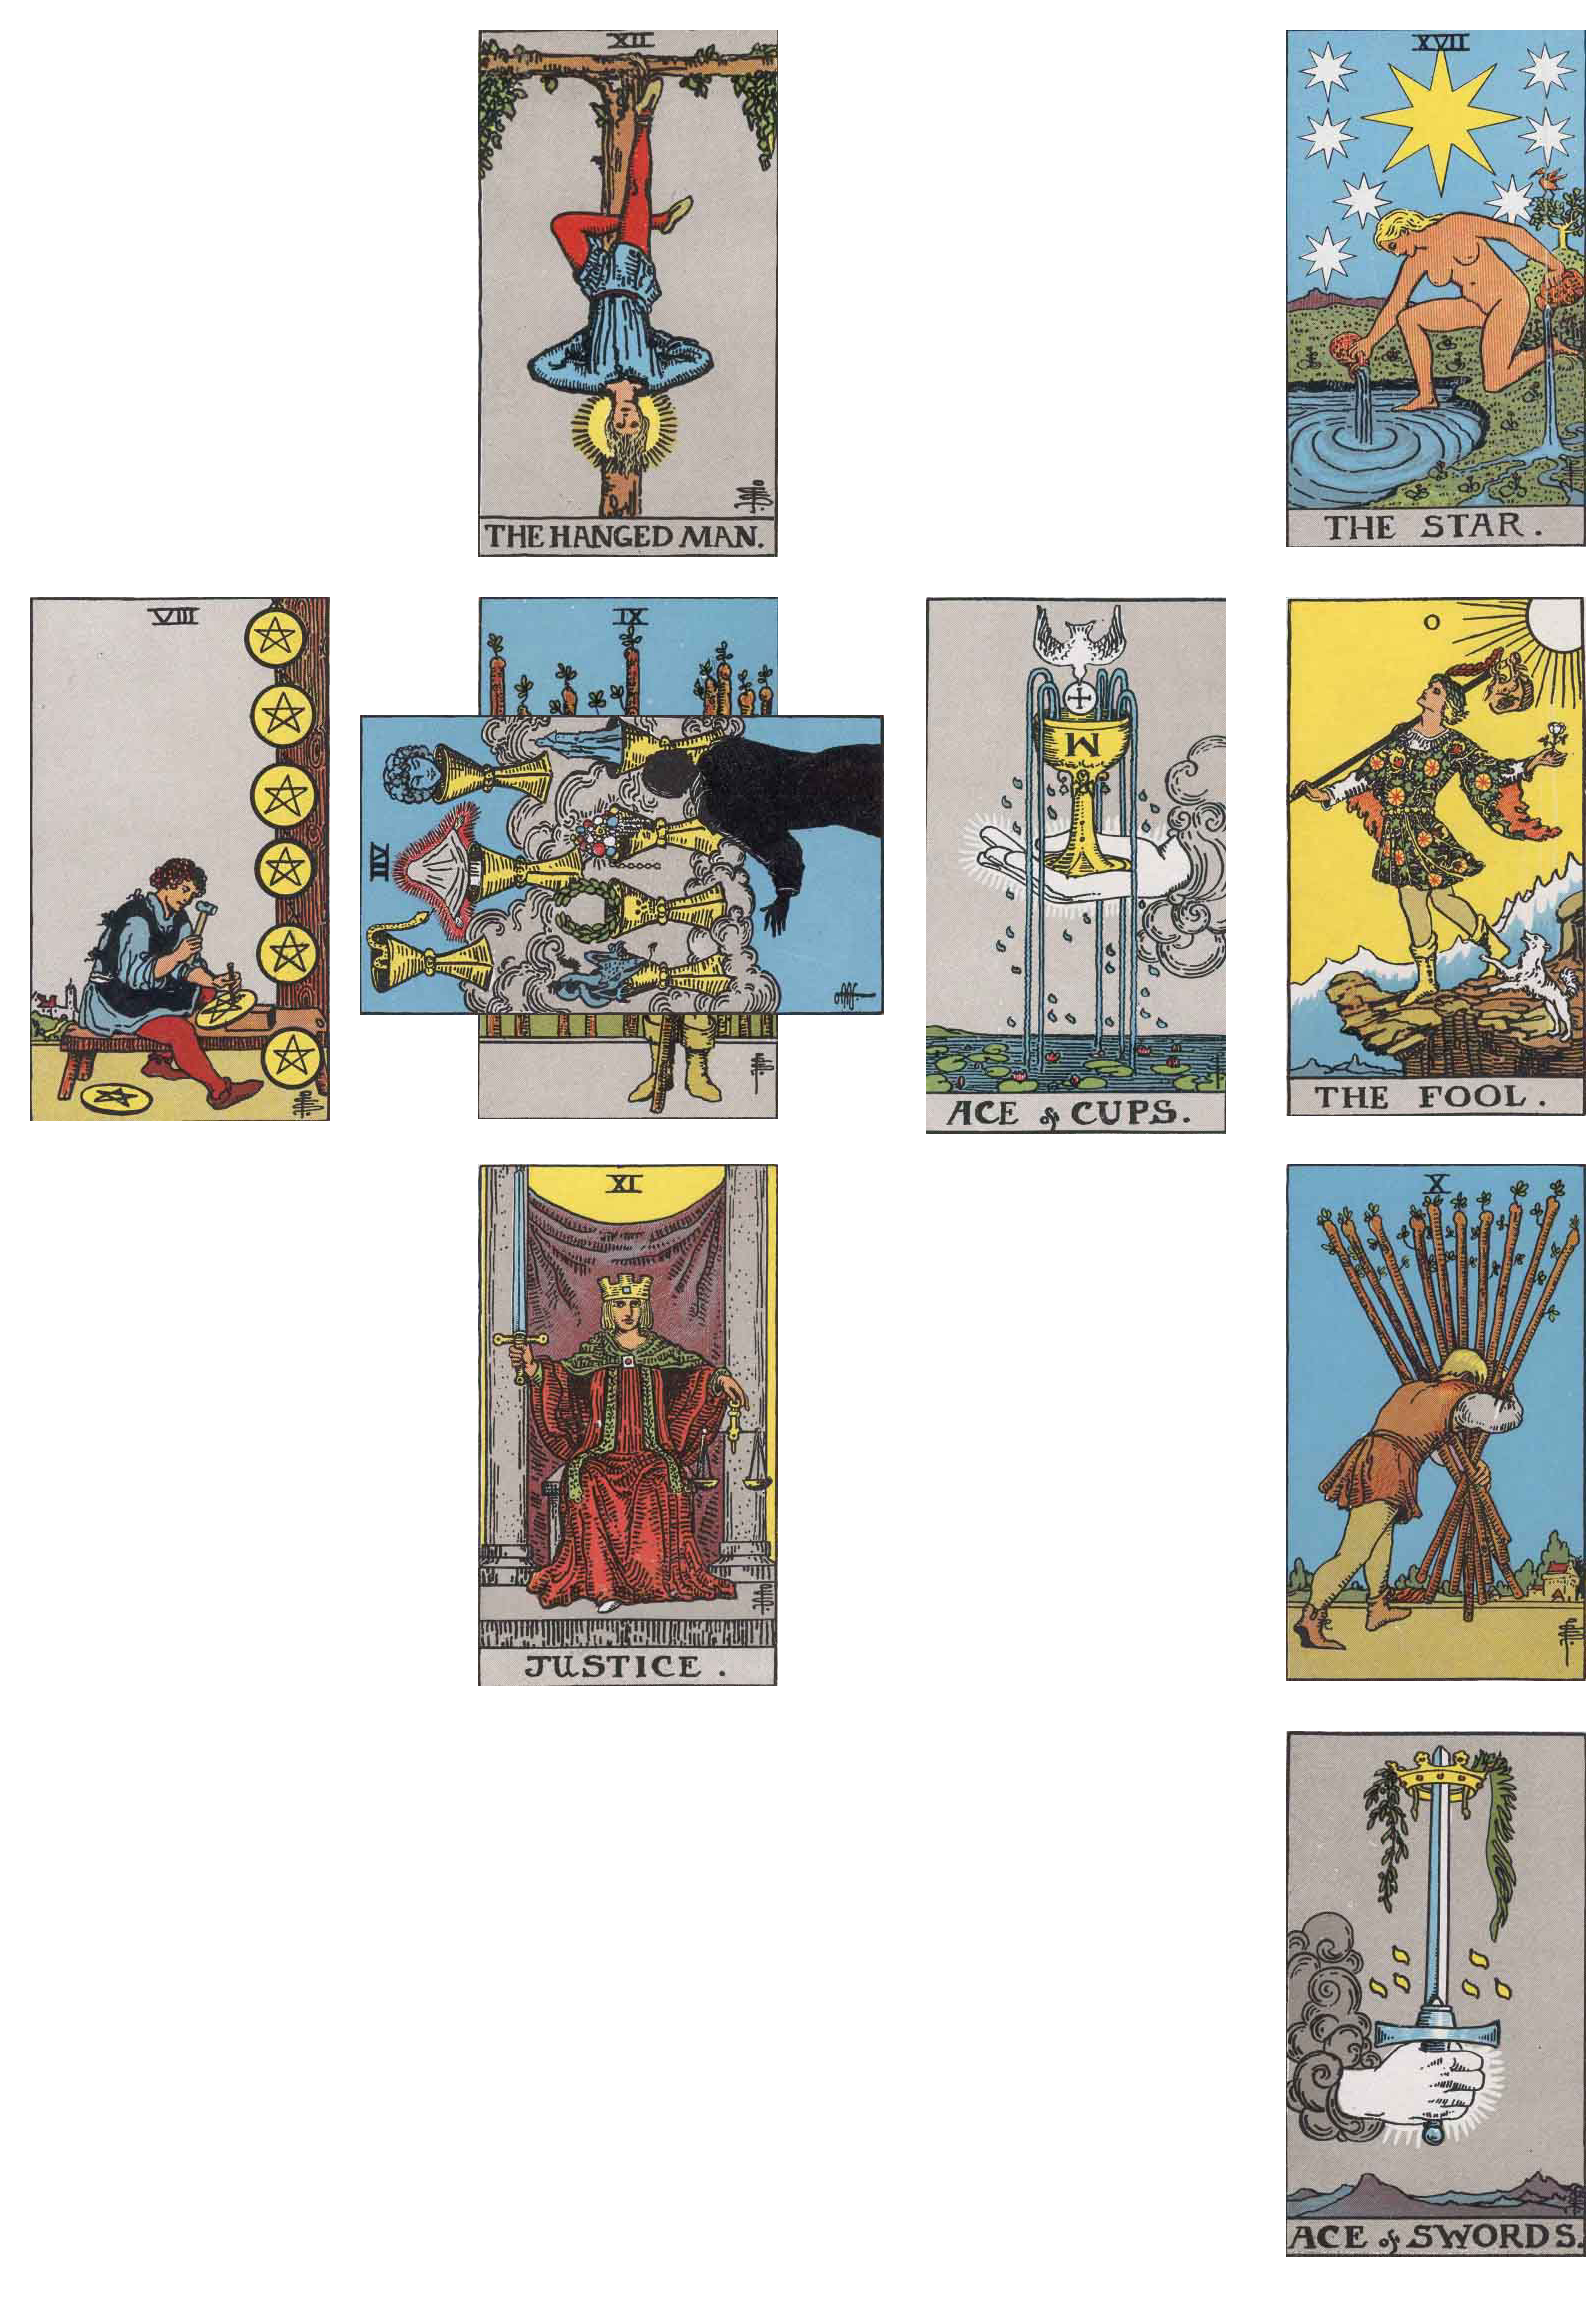
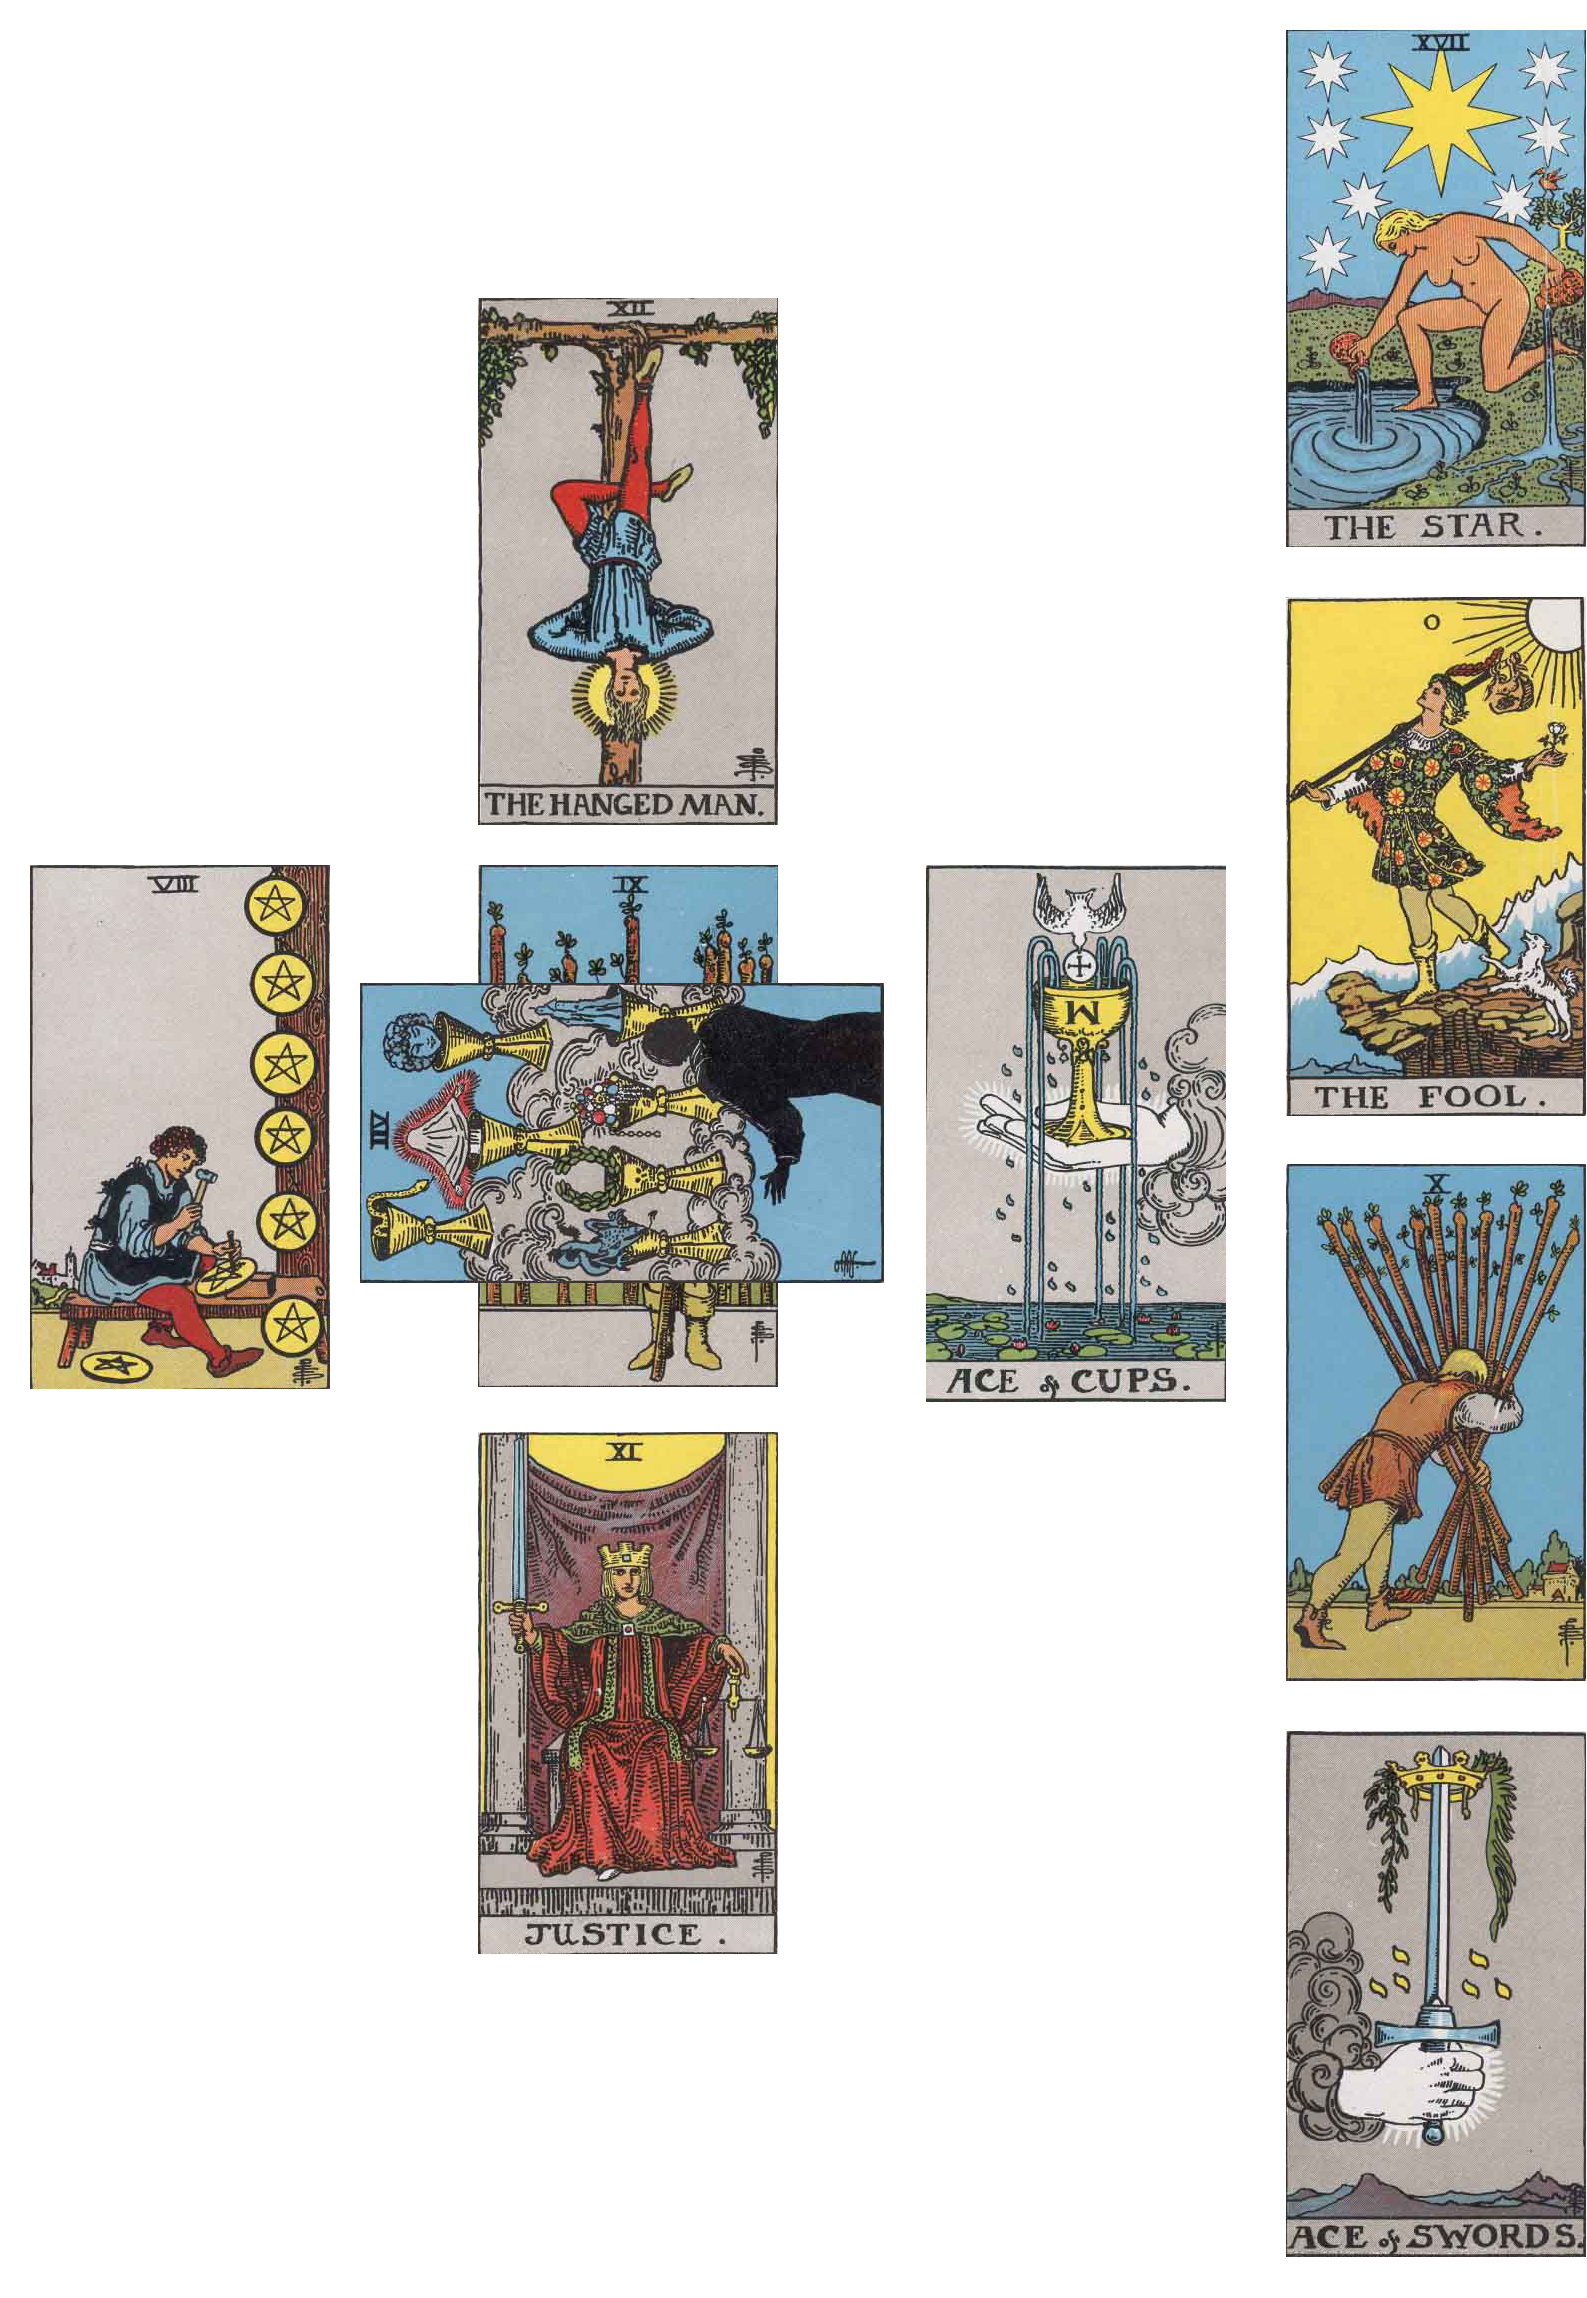
tweak celtic cross layout a little

Changed region(s): [[0.0, 0.0, 0.7719, 0.8651]]

diff --git a/main.go b/main.go
@@ -38,13 +38,16 @@ func ccspread(images []image.Image, glue *int) image.RGBA {
 	canvas := *image.NewRGBA(image.Rect(0, 0, (3*cardwidth)+cardheight+(5*g), (5*g)+(4*cardheight)))
 	cssize := (cardheight - cardwidth) / 2
 	canchx := (2 * g) + cardwidth + cssize
+	canchy := g + (cardheight / 2)
 	incy := cardheight + g
-	copycard(images[4], canvas, canchx, g)
-	copycard(images[0], canvas, canchx, g+incy)
-	copycard(images[2], canvas, canchx, g+(2*incy))
-	copycard(images[3], canvas, g, g+incy)
-	copycard(rotatecard(images[1]), canvas, canchx-cssize, g+incy+cssize)
-	copycard(images[5], canvas, canchx+cardwidth+cssize+g, g+incy)
+	/* central area of the spread */
+	copycard(images[4], canvas, canchx, canchy)
+	copycard(images[0], canvas, canchx, canchy+incy)
+	copycard(images[2], canvas, canchx, canchy+(2*incy))
+	copycard(images[3], canvas, g, canchy+incy)
+	copycard(rotatecard(images[1]), canvas, canchx-cssize, canchy+incy+cssize)
+	copycard(images[5], canvas, canchx+cardwidth+cssize+g, canchy+incy)
+	/* rod to the right of the spread */
 	ranchx := canchx + (2 * cardwidth) + cssize + (3 * g)
 	copycard(images[9], canvas, ranchx, g)
 	copycard(images[8], canvas, ranchx, g+incy)
